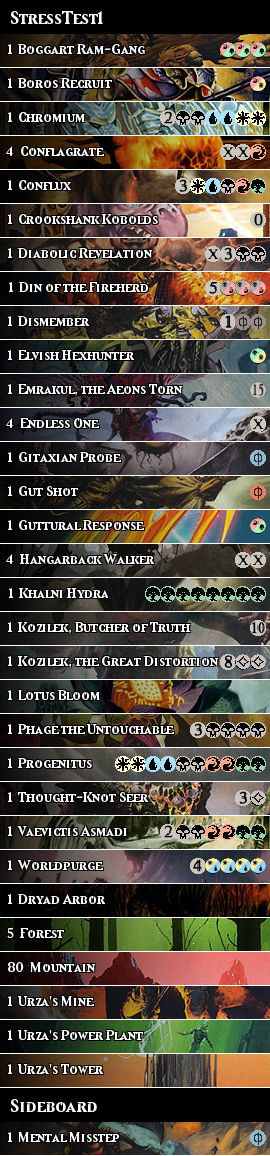
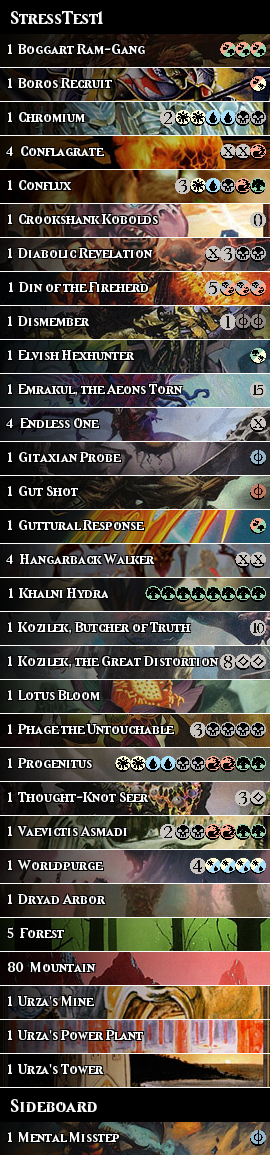
Use mtgjson, rather than scraping html

diff --git a/scraper.py b/scraper.py
@@ -4,7 +4,7 @@ from future import standard_library
 standard_library.install_aliases()
 from builtins import str
 from builtins import range
-import os, urllib.request, urllib.parse, urllib.error
+import os, urllib.request, urllib.parse, urllib.error, json
 import requests
 import config
 
@@ -15,6 +15,9 @@ from lxml import html
 from globals import Card, specmana
 
 def download_scan(name, expansion):
+    expansion = expansion.lower()
+    if expansion == 'mps':
+        expansion = 'mpskld'
     name2 = ''.join(e for e in name if e.isalnum())
     localname = name2+'_'+expansion+'.jpg'
     lookupScan = os.path.join('.', 'Scans', localname)
@@ -29,7 +32,7 @@ def download_scan(name, expansion):
         name = name.split('/')[0]+' ('+name+')'
 
     scannumber = scantree.xpath('//a[text()="{name}"]/@href'.format(name=name))
-    # print(scannumber)
+    print(scannumber)
     cardloc = None
     for item in scannumber:
         if item.find("/en/"):
@@ -41,9 +44,11 @@ def download_scan(name, expansion):
         # print(cardloc)
         pass
 
-    url = 'http://magiccards.info/scans/en/'+cardloc[1]+'/'+cardloc[3]+'jpg'
-    urllib.request.urlretrieve(url, cardloc[3]+'jpg')
-    os.rename(cardloc[3] + 'jpg', lookupScan)
+    expansion = cardloc[1]
+    number = cardloc[3].strip('.')
+    url = 'http://magiccards.info/scans/en/'+expansion+'/'+number+'.jpg'
+    urllib.request.urlretrieve(url, number+'.jpg')
+    os.rename(number + '.jpg', lookupScan)
 
     return lookupScan
 
@@ -141,89 +146,60 @@ def get_card_info(line, quantity=None):
 
     if not isitland:
 
-        #update the cardname as the string to be looked at in the html code of mtgvault.com - finds both CMC and set name
-        name_sub = name.replace(",", "")
-        name_sub = name_sub.replace("'", " ")
-        # print(name_sub)
+        expansion, manacost, typeline, number = get_json(name, expansion)
 
-        cmcsearch = name_sub.replace(" ", "+")
-        scansearch = name_sub.replace(" s ", "s ")
-#        scansearch = scansearch.replace(" ","-")
-        if name_sub.find(' // ') != -1:
-            scansearch = scansearch.replace(" // ", '-')
-        else:
-            scansearch = scansearch.replace(" ", "-")
-        scansearch = scansearch.lower()
-        # print(cmcsearch, scansearch)
-
-        if expansion is None:
-            cmcweb = 'http://www.mtgvault.com/cards/search/?q={cmcsearch}&searchtype=name'.format(cmcsearch=cmcsearch)
-        else:
-            cmcweb = 'http://www.mtgvault.com/cards/search/?q={cmcsearch}&searchtype=name&s={set}'.format(cmcsearch=cmcsearch, set=expansion)
-
-        cmcpage = requests.get(cmcweb)
-        cmctree = html.fromstring(cmcpage.content)
-
-        scankey = "/card/" + scansearch + '/'
-
-        cmcscan = cmctree.xpath('//a[img[@class="card_image"]]/@href')
-        # print cmcscan
-        for item in cmcscan:
-            # print item,ncount_card
-            if scan_part1 != None:
-                continue
-            if item.find(scankey) == 0:
-                print("found it:", item)
-                scan_part1 = item.split(scankey)[1]
-            ncount_card = ncount_card + 1
-        altscan = str(scan_part1.split('/"')[0]).lower()
-
-        expansion = altscan[:-1]
-
-        cmctext = cmctree.xpath('//div[@class="view-card-center"]/p/text()')
-        # print(cmctext)
-
-        finallist = []
-        for item in cmctext:
-            if item[-1] == "}":
-                finallist.append(item)
-        # print(finallist)
-
-        if cmctext[0].find("Land") != -1:
-            altcmc = '*'
-        elif not '}' in cmctext[0]:
+        if typeline.find("Land") != -1:
+            manacost = '*'
+        elif manacost is None:
             # Lotus Bloom, Evermind, and other costless cards.
-            altcmc = '**'
+            manacost = '**'
         else:
-#                cmc_part1 = str(cmctext[0].split(" {")[1])[:-1]
-            if finallist[ncount_card-1].find(' // ') != -1:
-                splitcost = True
-                for item in finallist[0].split(' //'):
-                    altcmc_list.append(item.split(" {")[1][:-1].split("}{"))
-                    # print(name, altcmc_list[n_cost])
-                    n_cost += 1
-            else:
-                cmc_part1 = str(finallist[ncount_card-1].split(" {")[1])[:-1]
-                altcmc = cmc_part1.split("}{")
-                altcmc = [specmana[x] for x in altcmc]
-                # print(name, altcmc)
+            costs = manacost.split(' // ')
+            manacost = ''
+            for cost in costs:
+                cost = cost[1:-1]
+                cost = cost.split("}{")
+                cost = [specmana[x] for x in cost]
+                cost = ''.join(cost)
+                if manacost == '':
+                    manacost = cost
+                else:
+                    manacost = manacost + '/' + cost
 
-        cost = ''
-        if splitcost:
-            for n in range(n_cost):
-                cost += "".join(altcmc_list[n])+'/'
-            cost = cost[:-1]+"\n"
-        else:
-            cost = "".join(altcmc)+"\n"
-        print((name, expansion, cost))
+        print((name, expansion, manacost))
 
     else:
 
         #all basic lands will be using Unhinged card art
         if expansion is None:
             expansion = "uh"
-        cost = "*\n"
-    return Card(name, expansion, cost, quantity, collector_num=None)
+        number=None
+        manacost = "*"
+    return Card(name, expansion, manacost, quantity, collector_num=number)
+
+def get_json(cardname, expansion):
+    if ' // ' in cardname:
+        splitcard = True
+        cardname, altname = cardname.split(' // ')
+    else:
+        splitcard = False
+
+    js = requests.get('http://api.magicthegathering.io/v1/cards?name="{cardname}"'.format(cardname=cardname))
+    blob = json.loads(js.content)
+    card = blob['cards'][0]
+    mana_cost = card.get('manaCost', None)
+    typeline = card['type']
+    printings = card['printings']
+    number = card.get('number', None)
+    if not expansion in printings:
+        expansion = printings[-1]
+    if splitcard:
+        js = requests.get('http://api.magicthegathering.io/v1/cards?name="{cardname}"'.format(cardname=altname))
+        blob = json.loads(js.content)
+        card = blob['cards'][0]
+        mana_cost = mana_cost + ' // ' + card.get('manaCost', None)
+    # print((cardname, expansion, mana_cost, typeline))
+    return expansion, mana_cost, typeline, number
 
 def unaccent(text):
     text =  ''.join((c for c in unicodedata.normalize('NFD', text) if unicodedata.category(c) != 'Mn'))

diff --git a/StackIt.py b/StackIt.py
@@ -100,17 +100,15 @@ def draw_hex_card(name, guid, quantity, nstep):
 
     deck.paste(cut, (50,35*nstep))
 
-def draw_mtg_card(name, expansion, quantity, cost, nstep):
-    if name.find(" // ") != -1:
-        namesplit = name.replace(" // ", "/")
-        lookupScan = scraper.download_scan(namesplit, expansion)
+def draw_mtg_card(card, nstep):
+    if card.name.find(" // ") != -1:
+        namesplit = card.name.replace(" // ", "/")
+        lookupScan = scraper.download_scan(namesplit, card.set)
     else:
-        lookupScan = scraper.download_scan(name, expansion)
-
-    #    print name, lookupScan
+        lookupScan = scraper.download_scan(card.name, card.set)
 
     img = Image.open(lookupScan)
-    if name.find(" // ") != -1:
+    if card.name.find(" // ") != -1:
         img = img.rotate(-90)
 
     #check if im has Alpha band...
@@ -130,24 +128,24 @@ def draw_mtg_card(name, expansion, quantity, cost, nstep):
 
     draw = ImageDraw.Draw(cut)
     #create text outline
-    draw.text((6, 6),str(quantity)+'  '+name,(0,0,0), font=fnt)
-    draw.text((8, 6),str(quantity)+'  '+name,(0,0,0), font=fnt)
-    draw.text((6, 8),str(quantity)+'  '+name,(0,0,0), font=fnt)
-    draw.text((8, 8),str(quantity)+'  '+name,(0,0,0), font=fnt)
+    draw.text((6, 6), str(card.quantity)+'  '+card.name,(0,0,0), font=fnt)
+    draw.text((8, 6), str(card.quantity)+'  '+card.name,(0,0,0), font=fnt)
+    draw.text((6, 8), str(card.quantity)+'  '+card.name,(0,0,0), font=fnt)
+    draw.text((8, 8), str(card.quantity)+'  '+card.name,(0,0,0), font=fnt)
     #enter text
-    draw.text((7, 7),str(quantity)+'  '+name,(250,250,250), font=fnt)
+    draw.text((7, 7), str(card.quantity)+'  '+card.name,(250,250,250), font=fnt)
 
-    cmc, adjustcmc = GenerateCMC(name, cost)
+    cmc, adjustcmc = GenerateCMC(card.name, card.cost)
 
     #place the cropped picture of the current card
     deck.paste(cut, (0, 34 * nstep))
 
     #adjust cmc size to reflex manacost greater than 9
     if adjustcmc:
-        deck.paste(cmc, (280-15*(len(cost)-1),8+34*nstep), mask=cmc)
+        deck.paste(cmc, (280-15*len(card.cost),8+34*nstep), mask=cmc)
         adjustcmc = False
     else:
-        deck.paste(cmc, (280-15*len(cost),8+34*nstep), mask=cmc)
+        deck.paste(cmc, (280-15*(len(card.cost)+1),8+34*nstep), mask=cmc)
 
 nstep = 1
 
@@ -284,21 +282,21 @@ if deck_list.game == decklist.MTG:
         for card in deck_list.mainboard:
             #this step checks whether a specific art is requested by the user - provided via the set name
 
-            if card.cost == "*\n":
+            if card.cost == "*":
                 lands.append(card)
                 continue
-            draw_mtg_card(card.name, card.set, card.quantity, card.cost, nstep)
+            draw_mtg_card(card, nstep)
             nstep = nstep + 1
 
         for card in lands:
-            draw_mtg_card(card.name, card.set, card.quantity, card.cost, nstep)
+            draw_mtg_card(card, nstep)
             nstep = nstep + 1
 
         if doSideboard:
             deck.paste(sideboard, (0,34*nstep))
             nstep = nstep + 1
             for card in deck_list.sideboard:
-                draw_mtg_card(card.name, card.set, card.quantity, card.cost, nstep)
+                draw_mtg_card(card, nstep)
                 nstep = nstep + 1
 
 elif deck_list.game == decklist.POKEMON:

diff --git a/globals.py b/globals.py
@@ -6,5 +6,12 @@ Card = collections.namedtuple('Card', ['name', 'set', 'cost', 'quantity', 'colle
 List = collections.namedtuple('List', ['game', 'mainboard', 'sideboard', 'commander'])
 
 #create a dictionary for non-basic mana:
-specmana = {'0': '0', '1': '1', '2': '2', '3': '3', '4': '4', '5': '5', '6': '6', '7': '7', '8': '8', '9': '9', '10': '10', '11': '11', '12': '12', '13': '13', '14': '14', '15': '15', '16': '16', 'X': 'X', 'C': 'C', 'W': 'W', 'U': 'U', 'B': 'B', 'R': 'R', 'G': 'G', 'PW': 'P', 'PU': 'Q', 'PB': 'S', 'PR': 'T', 'PG': 'V', '2W': 'Y', '2U': 'Z', '2B': '@', '2R': 'A', '2G': 'D', 'WU': 'E', 'UB': 'F', 'BR': 'H', 'RG': 'I', 'GW': 'J', 'WB': 'K', 'UR': 'L', 'BG': 'M', 'RW': 'N', 'GU': 'O'}
+specmana = {
+    '0': '0', '1': '1', '2': '2', '3': '3', '4': '4', '5': '5', '6': '6', '7': '7', '8': '8', '9': '9', '10': '10',
+    '11': '11', '12': '12', '13': '13', '14': '14', '15': '15', '16': '16', 
+    'X': 'X', 'C': 'C', 'W': 'W', 'U': 'U', 'B': 'B', 'R': 'R', 'G': 'G', 
+    'W/P': 'P', 'U/P': 'Q', 'B/P': 'S', 'R/P': 'T', 'G/P': 'V', 
+    '2/W': 'Y', '2/U': 'Z', '2/B': '@', '2/R': 'A', '2/G': 'D', 
+    'W/U': 'E', 'U/B': 'F', 'B/R': 'H', 'R/G': 'I', 'G/W': 'J', 'W/B': 'K', 'U/R': 'L', 'B/G': 'M', 'R/W': 'N', 'G/U': 'O'
+    }
 
